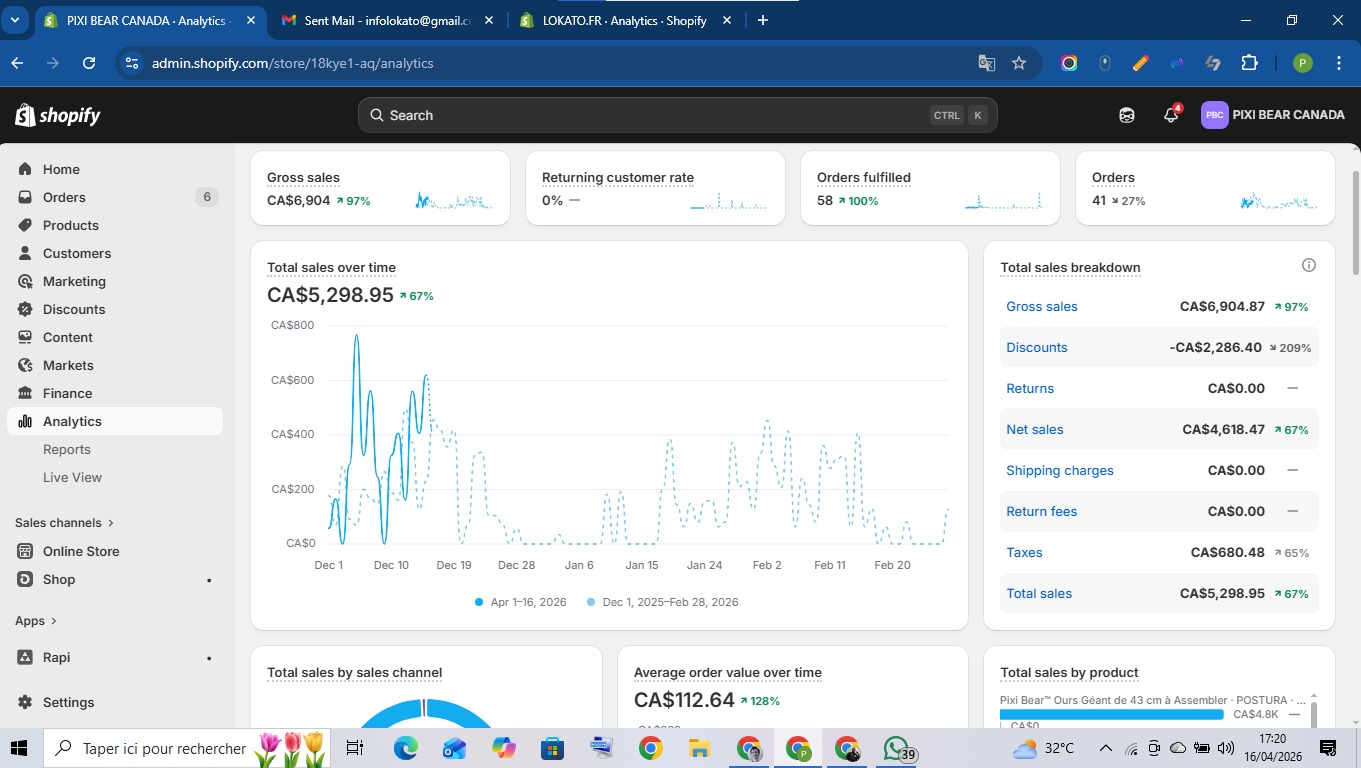
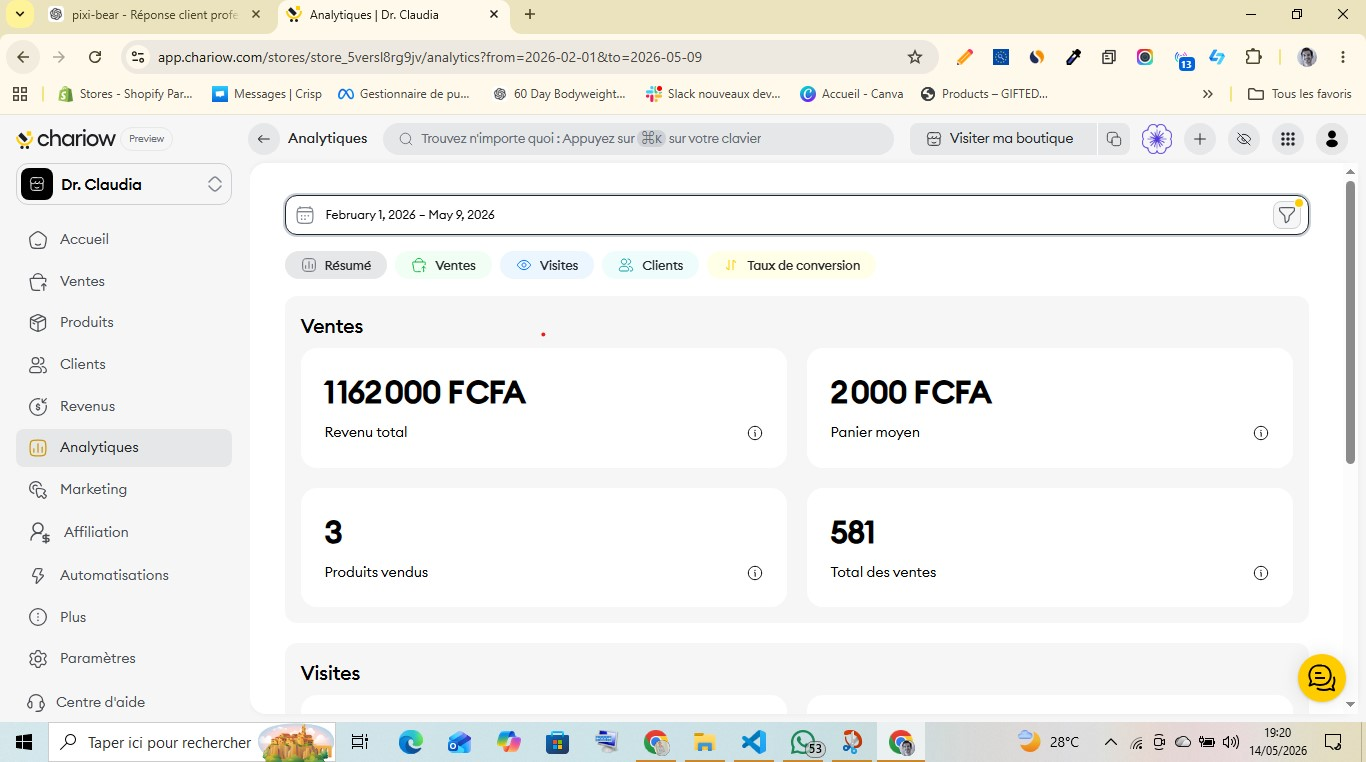
Add cinematic proof section

diff --git a/components/sections/ProofSection.tsx b/components/sections/ProofSection.tsx
@@ -1,88 +1,94 @@
 "use client";
 
-import { motion, useInView } from "framer-motion";
-import { useRef } from "react";
+import { motion } from "framer-motion";
 
 const steps = [
   {
+    id: "builder",
     title: "The Builder",
-    subtitle: "Where it all started",
-    text: `I started as a curious developer, trying to understand how systems work.
-
-From basic websites to real applications, I learned by building.`,
+    subtitle: "Origins",
+    text: "I started as a curious developer, learning how systems work and building small projects step by step.",
     image: "/images/me-1.jpg",
   },
   {
+    id: "execution",
     title: "The Execution",
-    subtitle: "Turning code into results",
-    text: `I moved from learning to execution.
-
-Real projects. Real users. Real problems solved through code.`,
-    image: "/images/me-work.jpg",
+    subtitle: "Real Work",
+    text: "I moved from learning to execution. Real systems. Real users. Real impact through code and consistency.",
+    image: "/images/me-coding.jpg",
   },
   {
+    id: "results",
     title: "The Results",
-    subtitle: "Business impact",
-    text: `I entered e-commerce and digital systems seriously.
-
-Shopify, automation, funnels, products — everything became execution-driven.`,
-    image: "/images/me-business.jpg",
+    subtitle: "Business Impact",
+    text: "E-commerce became my playground. Shopify systems, funnels, automation, and real revenue generation.",
+    image: "/images/me-work.jpg",
   },
   {
+    id: "proof",
     title: "The Proof",
-    subtitle: "Real numbers",
-    text: `Chariow: 1M FCFA in 48 hours  
-Multiple stores generating consistent revenue  
-Thousands of euros/month through systems & execution`,
-    image: "/images/me-work.jpg",
+    subtitle: "Numbers",
+    text: "Chariow: 1M FCFA in 48 hours. Multiple stores. Consistent revenue. Execution over theory.",
+    image: "/images/me-business.jpg",
   },
 ];
 
-function Step({ step, index }: { step: any; index: number }) {
-  const ref = useRef(null);
-  const isInView = useInView(ref, { amount: 0.6 });
+function Step({
+  step,
+  index,
+}: {
+  step: (typeof steps)[0];
+  index: number;
+}) {
+  const isReverse = index % 2 !== 0;
 
   return (
-    <section ref={ref} className="h-screen flex items-center sticky top-0">
-      <div className="container mx-auto px-6 grid md:grid-cols-2 gap-12 items-center">
-
-        {/* TEXT */}
-        <motion.div
-          initial={{ opacity: 0, y: 40 }}
-          animate={isInView ? { opacity: 1, y: 0 } : {}}
-          transition={{ duration: 0.7 }}
-          className="space-y-6"
-        >
-          <span className="text-primary uppercase tracking-widest text-xs">
-            {step.subtitle}
-          </span>
-
-          <h2 className="text-4xl md:text-6xl font-bold">
-            {step.title}
-          </h2>
-
-          <p className="text-muted-foreground text-lg leading-relaxed whitespace-pre-line">
-            {step.text}
-          </p>
-        </motion.div>
-
+    <section className="relative min-h-screen flex items-center py-20 overflow-hidden">
+      <div
+        className={`container mx-auto px-6 grid lg:grid-cols-2 gap-14 items-center ${
+          isReverse ? "lg:[&>*:first-child]:order-2" : ""
+        }`}
+      >
         {/* IMAGE */}
         <motion.div
-          initial={{ opacity: 0, scale: 0.95 }}
-          animate={isInView ? { opacity: 1, scale: 1 } : {}}
+          initial={{ opacity: 0, x: isReverse ? 60 : -60 }}
+          whileInView={{ opacity: 1, x: 0 }}
+          viewport={{ once: true, amount: 0.3 }}
           transition={{ duration: 0.8 }}
           className="relative"
         >
-          <div className="glass rounded-3xl overflow-hidden shadow-[0_0_80px_rgba(var(--glow),0.15)]">
+          <div className="glass rounded-3xl overflow-hidden border border-white/10">
             <img
               src={step.image}
               alt={step.title}
-              className="w-full h-[420px] object-cover hover:scale-105 transition-transform duration-700"
+              loading="lazy"
+              className="w-full h-[320px] md:h-[500px] object-cover"
             />
           </div>
 
-          {/* Glow effect */}
-          <div className="absolute -inset-10 bg-primary/10 blur-3xl -z-10" />
+          {/* Glow */}
+          <div className="absolute -inset-6 bg-primary/10 blur-3xl -z-10" />
+        </motion.div>
+
+        {/* TEXT */}
+        <motion.div
+          initial={{ opacity: 0, x: isReverse ? -60 : 60 }}
+          whileInView={{ opacity: 1, x: 0 }}
+          viewport={{ once: true, amount: 0.3 }}
+          transition={{ duration: 0.8 }}
+          className="max-w-2xl"
+        >
+          <span className="text-primary uppercase tracking-[0.25em] text-xs">
+            {step.subtitle}
+          </span>
+
+          <h2 className="text-4xl md:text-6xl font-bold mt-4 mb-8 leading-tight">
+            {step.title}
+          </h2>
+
+          <p className="text-muted-foreground text-lg md:text-xl leading-relaxed">
+            {step.text}
+          </p>
         </motion.div>
       </div>
     </section>
@@ -91,50 +97,58 @@ function Step({ step, index }: { step: any; index: number }) {
 
 export function ProofSection() {
   return (
-    <div className="relative">
-      {/* HEADER (Apple style intro) */}
-      <div className="text-center py-32">
-        <motion.h2
-          initial={{ opacity: 0, y: 20 }}
-          animate={{ opacity: 1, y: 0 }}
+    <section className="relative py-32 overflow-hidden">
+      {/* Background glow */}
+      <div className="absolute inset-0 bg-gradient-to-b from-background via-primary/5 to-background" />
+
+      {/* Header */}
+      <div className="relative z-10 text-center mb-24 px-6">
+        <motion.h1
+          initial={{ opacity: 0, y: 30 }}
+          whileInView={{ opacity: 1, y: 0 }}
+          viewport={{ once: true }}
+          transition={{ duration: 0.7 }}
           className="text-5xl md:text-7xl font-bold"
         >
           Proof of <span className="text-primary">Execution</span>
-        </motion.h2>
+        </motion.h1>
 
         <motion.p
           initial={{ opacity: 0 }}
-          animate={{ opacity: 1 }}
-          transition={{ delay: 0.3 }}
-          className="text-muted-foreground mt-6 max-w-2xl mx-auto"
+          whileInView={{ opacity: 1 }}
+          viewport={{ once: true }}
+          transition={{ delay: 0.2, duration: 0.7 }}
+          className="text-muted-foreground mt-6 max-w-2xl mx-auto text-lg"
         >
-          Not theory. Not ideas. Real systems built through discipline and execution.
+          A cinematic journey from curiosity to real-world impact.
         </motion.p>
-      </div>
+      </div> 
 
-      {/* STEPS */}
-      <div>
+      {/* Steps */}
+      <div className="relative z-10">
         {steps.map((step, index) => (
-          <Step key={index} step={step} index={index} />
+          <Step key={step.id} step={step} index={index} />
         ))}
       </div>
 
-      {/* FINAL STATEMENT */}
-      <div className="py-40 text-center">
+      {/* Final quote */}
+      <div className="relative z-10 px-6 mt-20">
         <motion.div
           initial={{ opacity: 0, y: 40 }}
           whileInView={{ opacity: 1, y: 0 }}
           viewport={{ once: true }}
-          className="max-w-3xl mx-auto glass rounded-3xl p-10"
+          transition={{ duration: 0.8 }}
+          className="glass rounded-3xl p-10 md:p-14 max-w-4xl mx-auto text-center"
         >
-          <h3 className="text-3xl md:text-4xl font-bold mb-4">
-            I don’t just build websites.
-          </h3>
-          <p className="text-muted-foreground text-lg">
-            I build systems that generate value, income, and opportunities.
+          <p className="text-2xl md:text-4xl font-bold leading-relaxed">
+            “I don’t chase opportunities.
+            <span className="text-primary">
+              {" "}I build systems that create them.
+            </span>
+            ”
           </p>
         </motion.div>
       </div>
-    </div>
+    </section>
   );
 }